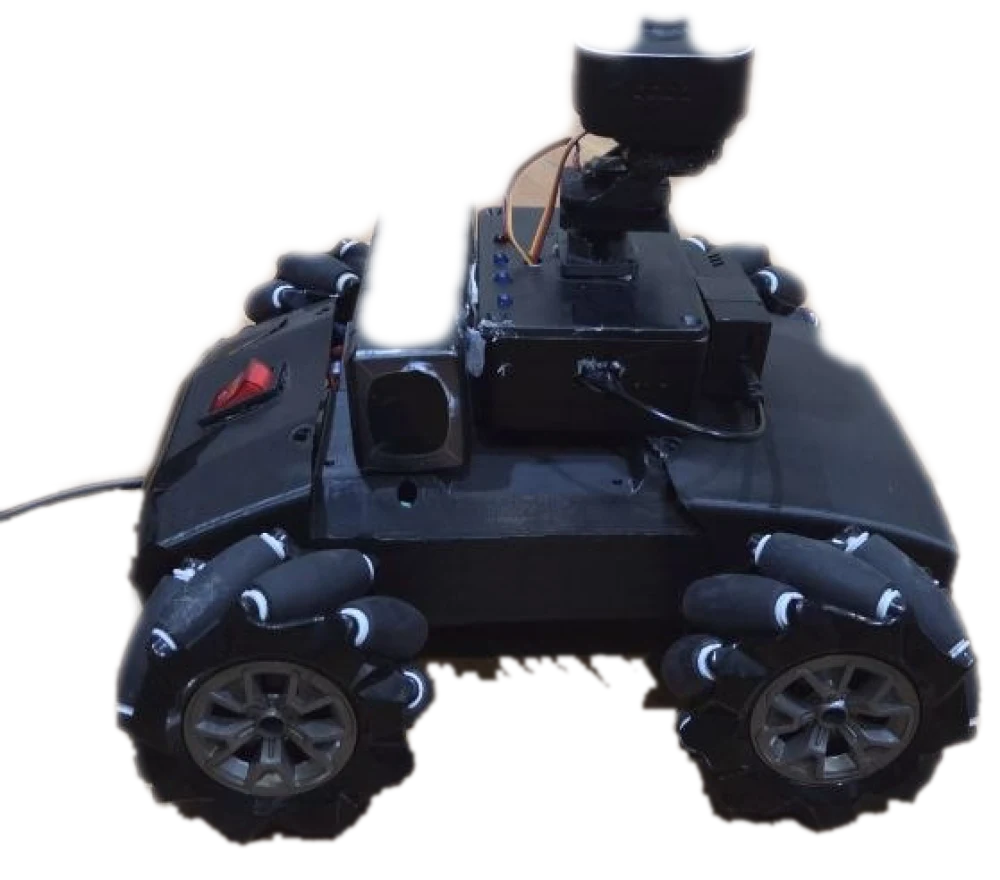
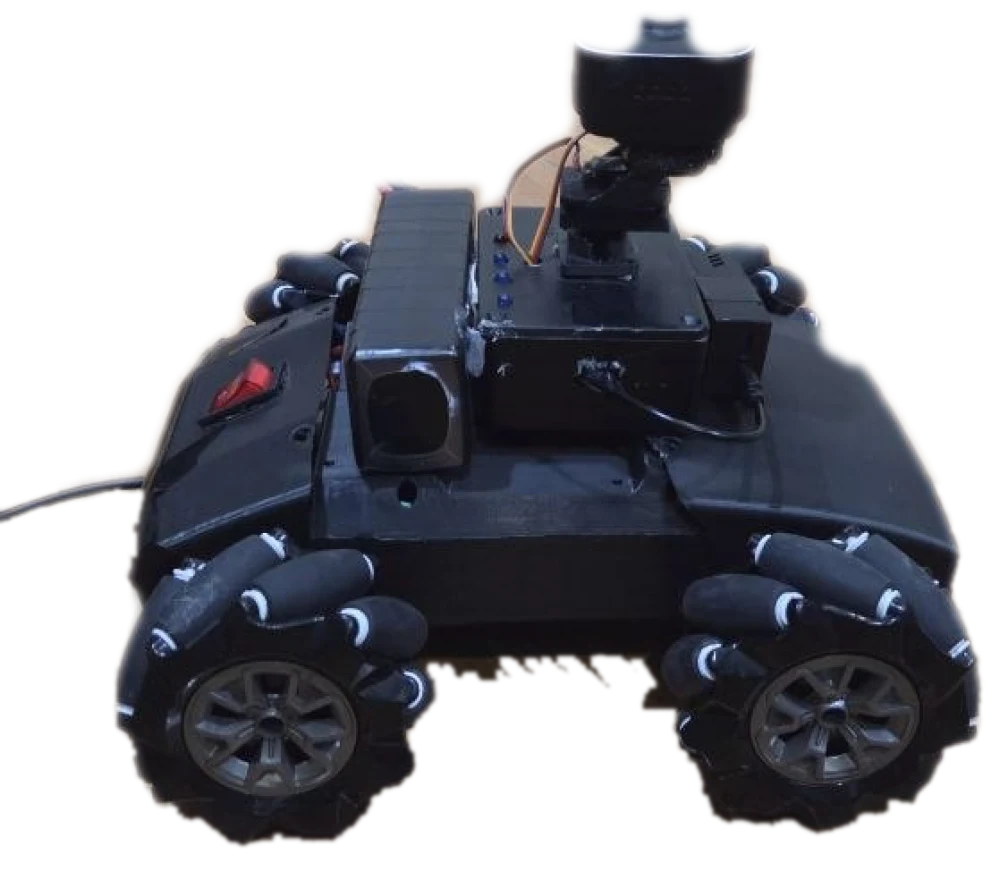
Corrige recorte del carrito: batería completa

Changed region(s): [[0.341, 0.1841, 0.496, 0.3989]]

diff --git a/index.html b/index.html
@@ -420,7 +420,7 @@ button{font:inherit;cursor:pointer;background:none;border:0;color:inherit}
     <div class="hero-visual reveal d2">
       <div class="robot-stage">
         <div class="hud" aria-hidden="true"><b></b><b></b><b></b><b></b><span class="t1">CAM 1 · MJPEG</span><span class="t2">REC</span><span class="t3">TARGET · SB-01</span></div>
-        <img src="img/robot.webp" alt="SHADOW BOT, vista lateral del carrito con ruedas mecanum y cámara sobre brazo pan/tilt" width="1000" height="880">
+        <img src="img/robot.webp?v=2" alt="SHADOW BOT, vista lateral del carrito con ruedas mecanum y cámara sobre brazo pan/tilt" width="1000" height="880">
       </div>
     </div>
   </div>
@@ -448,7 +448,7 @@ button{font:inherit;cursor:pointer;background:none;border:0;color:inherit}
         <p>Vehículo terrestre de inspección</p>
       </div>
       <div class="viewer" id="viewer">
-        <img class="cut is-on" src="img/robot.webp" alt="Vista lateral del SHADOW BOT">
+        <img class="cut is-on" src="img/robot.webp?v=2" alt="Vista lateral del SHADOW BOT">
         <img class="photo" src="img/frente.jpg" alt="Vista frontal del SHADOW BOT con la cámara Tapo">
         <img class="photo" src="img/arriba.jpg" alt="Vista superior del SHADOW BOT">
         <img class="photo" src="img/app.jpg" alt="Consola de la app en tablet con CAM 1, CAM 2 y telemetría">
